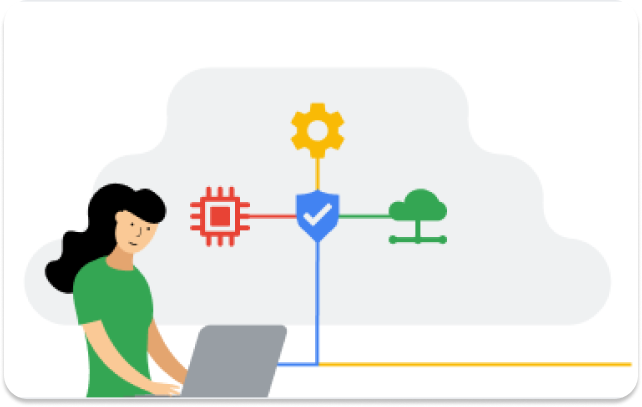
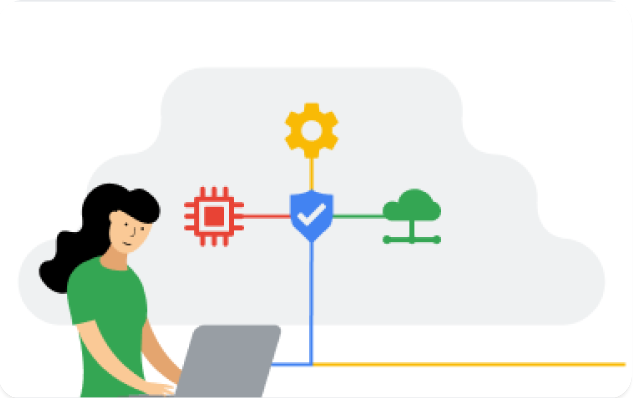
Dark Mode

diff --git a/index.html b/index.html
@@ -1,5 +1,5 @@
 <!DOCTYPE html>
-<html lang="en">
+<html lang="en"  class="dark" id="htmlTag">
   <head>
     <meta charset="UTF-8" />
     <meta name="viewport" content="width=device-width, initial-scale=1.0" />
@@ -10,13 +10,13 @@
     <title>CREATIVES FOR YOU</title>
     <link rel="stylesheet" href="main.css" />
   </head>
-  <body>
+  <body class="bg-white dark:bg-gray-900">
     <!--this is header section-->
     <nav class="py-2 md:py-5">
       <div class="container mx-auto flex justify-between items-center">
         <div>
           <img
-            class="w-[100px] lg:w-[200px]"
+            class="w-[100px] lg:w-[200px] dark:bg-red-500 dark:rounded-full dark:px-3"
             src="image/c4u full logo_2022 1.png"
             alt=""
           />
@@ -28,12 +28,12 @@
             <li
               class="transition hover:scale-105 ms-2 hover:translate-y-1 hover:text-red-700"
             >
-              <a href="#">Home</a>
+              <a class="dark:text-white" href="#">Home</a>
             </li>
             <li
               class="transition hover:scale-105 hover:translate-y-1 hover:text-red-700"
             >
-              <a class="" href="#">About Us</a>
+              <a class="dark:text-white" href="#">About Us</a>
             </li>
             <li
               class="transition hover:scale-105 hover:translate-y-1 hover:text-red-700"
@@ -43,14 +43,14 @@
             <li
               class="transition hover:scale-105 hover:translate-y-1 hover:text-red-700"
             >
-              <a>Contact Us</a>
+              <a class="dark:text-white">Contact Us</a>
             </li>
           </ul>
         </div>
         <div class="flex justify-center items-center">
           <button
             type="submit"
-            class="bg-[#F44335] md:text-base text-[12px] md:font-semibold py-1 md:py-3 md:px-6 rounded-md text-white hover:bg-[#8d120a] transition hover:scale-105 hover:translate-y-1"
+            class="bg-[#F44335] md:text-base text-[10px] md:font-semibold py-1 md:py-3 md:px-6 rounded-md text-white hover:bg-[#8d120a] transition hover:scale-105 hover:translate-y-1"
           >
             Register Interest
           </button>
@@ -61,7 +61,7 @@
               viewBox="0 0 24 24"
               stroke-width="1.5"
               stroke="currentColor"
-              class="size-7 stroke-black ms-1 me-1 md:ms-3 lg:ms-6 hover:scale-105 transition-all duration-300"
+              class="size-7 stroke-black ms-1 me-1 md:ms-3 lg:ms-6 hover:scale-105 transition-all duration-300 dark:stroke-white"
             >
               <path
                 stroke-linecap="round"
@@ -75,7 +75,7 @@
     </nav>
 
     <!--THIS IS HERO SECTION-->
-    <section class="md:flex md:px-0 px-4 md:py-10 py-5 w-full bg-[#FAFAFA]">
+    <section class="md:flex md:px-0 px-4 md:py-10 py-5 w-full bg-[#FAFAFA] dark:bg-gray-600">
       <!--LEFT SECTION-->
       <div class="">
         <h3 class="md:ms-20 text-xs md:text-lg">
@@ -129,7 +129,7 @@
     </section>
 
     <!--THIS IS BANNER SECTION-->
-    <div class="grid grid-cols-12 w-full py-10 md:mx-20 md:pe-20 p-1">
+    <div class="grid grid-cols-12 w-full py-10 md:ps-20 md:pe-20 p-1 dark:bg-gray-600">
       <div
         class="md:col-span-3 col-span-12 px-3 md:px-4 text-14px md:text-[18px] md:border-r md:border-r-2 border-[#D1D3D4] text-center"
       >
@@ -152,7 +152,7 @@
     </div>
 
     <!--THIS IS FEATURE SECTION-1-->
-    <div class="grid grid-cols-12 bg-[#FAFAFA] gap-5 justify-items-center">
+    <div class="grid grid-cols-12 bg-[#FAFAFA] gap-5 justify-items-center dark:bg-gray-600">
       <!--LEFT SECTION-->
       <div
         class="md:col-span-6 md:ms-20 col-span-12 p-3 md:p-6 shadow-xl shadow-slate-300 md:my-16 my-8 rounded-xl"
@@ -225,10 +225,10 @@
     </div>
 
     <!--THIS IS FEATURE SECTION-2-->
-    <div class="grid grid-cols-12 bg-[#FAFAFA] gap-5 mb-8 justify-items-center">
+    <div class="grid grid-cols-12 bg-[#FAFAFA] gap-5 justify-items-center dark:bg-gray-600">
       <!--LEFT SECTION-->
       <div
-        class="md:col-span-6 col-span-12 justify-items-center md:ms-20 shadow-xl shadow-slate-300 rounded-lg p-1"
+        class="md:col-span-6 col-span-12 justify-items-center md:ms-20 shadow-xl shadow-slate-300 rounded-lg p-1 md:mb-10"
       >
         <h2 class="heading-2">Jobs Assocaited with Certificate</h2>
         <div class="flex justify-items-center">
@@ -288,9 +288,9 @@
         </div>
       </div>
       <!--RIGHT SECTION-->
-      <div class="md:col-span-6 col-span-12 w-full object-cover lg:pe-20 p-1">
+      <div class="md:col-span-6 col-span-12 w-full object-fill md:pe-20 p-1 md:mb-10">
         <img
-          class="w-full object-cover h-auto"
+          class="w-full m-0 p-0 g-0 object-cover h-auto shadow-xl shadow-slate-300 rounded-3xl"
           src="image/IT Support 1.png"
           alt=""
         />
@@ -300,7 +300,7 @@
     <!--THIS IS COURSE SECTION-->
     <div class="flex items-center md:ms-20 my-10 md:mt-32 p-1 lg:ps-32">
        <div>
-        <h1 class=" text-xs md:text-2xl font-bold mb-3 md:mb-10 ">There are 5 Courses in this Professional Certificate</h1>
+        <h1 class=" text-xs md:text-2xl font-bold mb-3 md:mb-10 dark:text-gray-200">There are 5 Courses in this Professional Certificate</h1>
       
       <div>
            <button class="course-btn bg-green-400">course 1</button>
@@ -372,7 +372,7 @@
        </div>
 
        <!--THIS IS FOOTER  SECTION-->
-       <footer class="md:pt-10 pt-5 px-2 md:px-10 lg:ps-20 ">
+       <footer class="md:pt-10 pt-5 px-2 md:px-10 lg:ps-20 dark:bg-gray-500">
         <div class="grid grid-col-24 grid-flow-col">
         <div class="col-span-4 md:p-2">
           <img src="image/c4u full logo_2022 1.png" alt="">
@@ -432,5 +432,11 @@
           Copyright 2022 Creatives For You LTD
         </div>
        </footer>
+
+        
+    <script>
+      const htmlTag = document.getElementById("htmlTag")
+      document.getElementById("switch").addEventListener("click", function () { htmlTag.classList.toggle("dark"); });
+    </script>
   </body>
 </html>

diff --git a/main.css b/main.css
@@ -13,6 +13,6 @@
         @apply border  border-[#F44335] text-xs md:text-sm uppercase px-2 py-0.5 rounded-full hover:bg-black hover:text-white transition-all cursor-pointer 
     }
     .course-btn{
-        @apply text-xs md:text-lg px-2 md:px-4  py-0.5 md:py-0.5 my-1 md:my-3 me-2 md:me-10 border border-black rounded-full hover:bg-black hover:text-white hover:scale-105 transition-all duration-300 translate-y-1
+        @apply text-xs md:text-lg px-2 md:px-4  py-0.5 md:py-0.5 my-1 md:my-3 me-2 md:me-10 border border-black rounded-full hover:bg-black hover:text-white hover:scale-105 transition-all duration-300 translate-y-1 dark:text-gray-200 dark:border-white
     }
 }

diff --git a/tailwind.config.js b/tailwind.config.js
@@ -1,5 +1,6 @@
 /** @type {import('tailwindcss').Config} */
 module.exports = {
+  darkMode: 'class',
   content: ["*"],
   theme: {
     extend: {},
